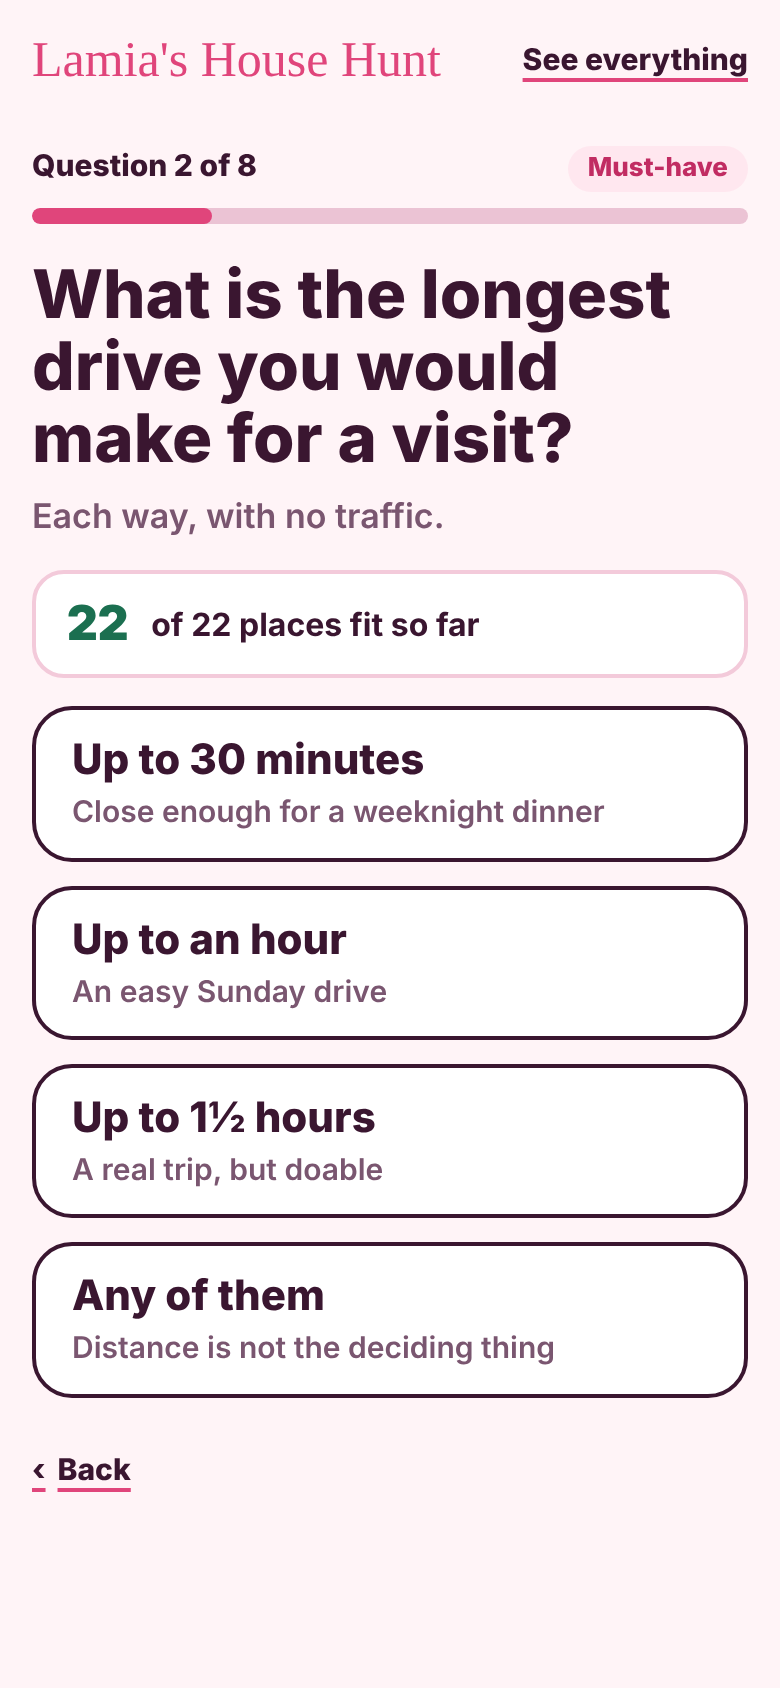
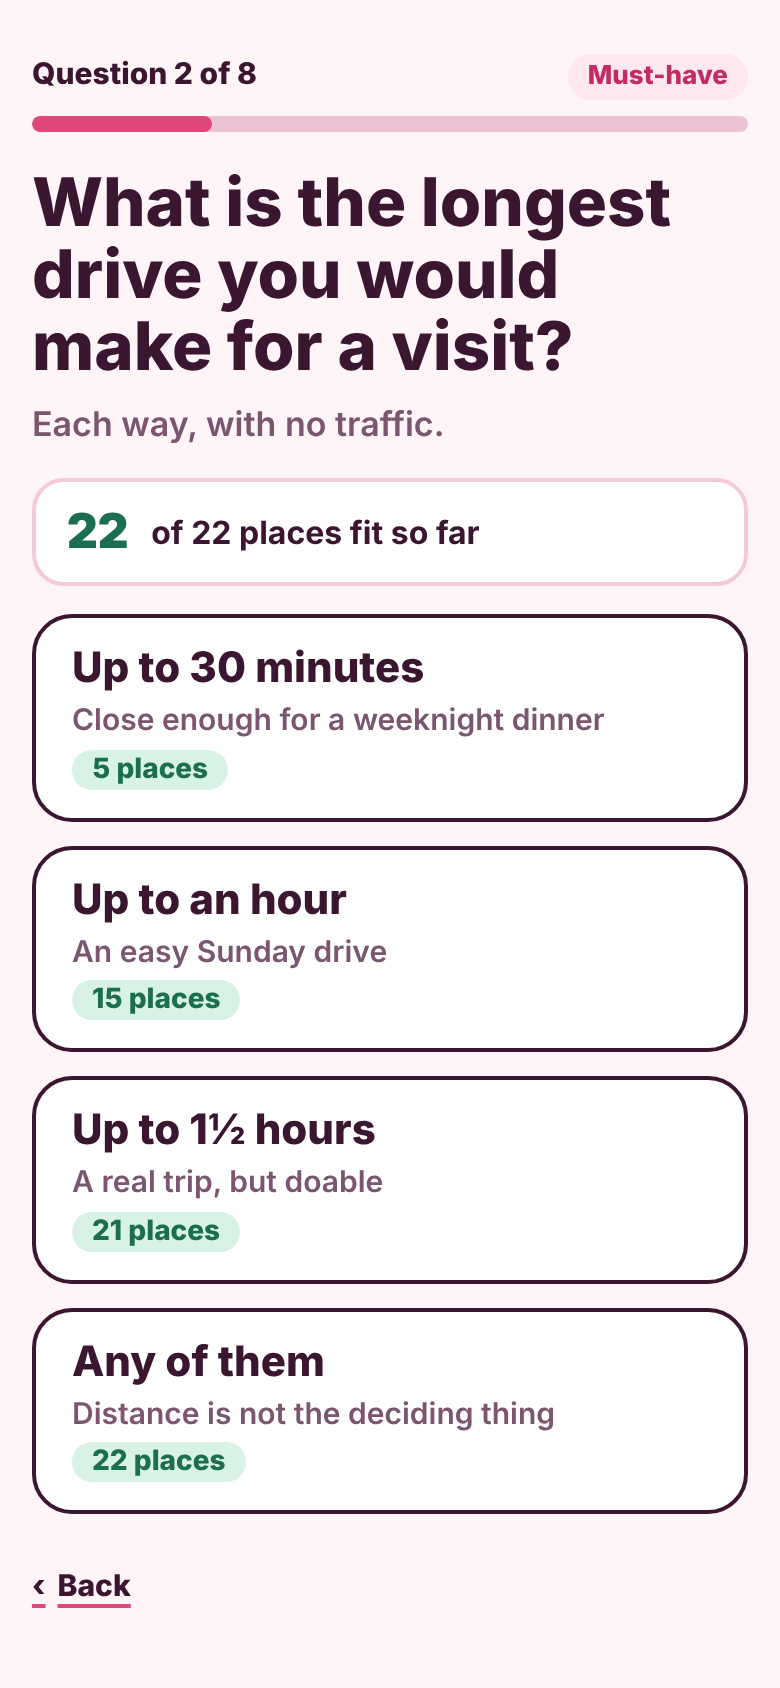
Short version v2: counts on must-have answers, visible without hover
Claude-Session: https://claude.ai/code/session_01QmsfsQ2hk5v2h8XwNhCh1P

Changed region(s): [[0.0308, 0.0308, 0.9846, 0.8934], [0.0308, 0.9242, 0.1846, 0.955], [0.9231, 0.8626, 0.9538, 0.8934]]

diff --git a/house-hunt/scripts/concierge_walkthrough_test.js b/house-hunt/scripts/concierge_walkthrough_test.js
@@ -140,7 +140,9 @@ async function barSays(page, n, label) {
         for (const a of q.answers) {
           const c = M.countFits(B, QS, Object.assign({}, answers, { [q.id]: a.id }), CFG); counts[a.id] = c;
           const btn = page.locator('#app [data-act="qa"][data-v="' + a.id + '"]');
-          ok((await btn.locator(".none").count()) === (c === 0 ? 1 : 0), q.id + "/" + a.id + ": 'None fit' label iff it leaves none (" + c + ")");
+          ok((await btn.locator(".none").count()) === (q.must_have && c === 0 ? 1 : 0), q.id + "/" + a.id + ": 'None fit' label iff a must-have answer leaves none (" + c + ")");
+          const cnt = await btn.locator(".cnt").allTextContents();
+          ok(q.must_have && c > 0 ? cnt.length === 1 && cnt[0] === c + (c === 1 ? " place" : " places") : cnt.length === 0, q.id + "/" + a.id + ": the count on the button (" + cnt.join("") + ", want " + c + ")");
           if (!opts.fast) {
             await btn.hover();
             const t = (await page.locator("#fitcount").innerText()).replace(/\n/g, " ");
@@ -150,6 +152,13 @@ async function barSays(page, n, label) {
         if (!opts.fast) { await page.mouse.move(2, 2); await page.locator("#app h1").hover(); }
       }
       if (opts.shot && opts.shot[q.id]) await screen(page, opts.shot[q.id]);
+      if (i === QS.length - 1 || q.must_have) {   /* scrolled to the end, the last control clears the bar */
+        const clear = await page.evaluate(() => { window.scrollTo(0, document.scrollingElement.scrollHeight); const bar = document.getElementById("savebar");
+          const last = [...document.querySelectorAll("#app .choice, #app .pchip, #app [data-act=pick-done]")].pop(); if (!bar || !last) return true;
+          return last.getBoundingClientRect().bottom <= bar.getBoundingClientRect().top; });
+        ok(clear, q.id + ": the bar hides the last answer");
+        await page.evaluate(() => window.scrollTo(0, 0));
+      }
       const choice = pickFor(q, counts);
       if (choice == null) { await act(page, "q-skip"); continue; }
       if (q.kind === "pick_two") {
@@ -225,7 +234,7 @@ async function barSays(page, n, label) {
     const answers = await answerAll(page, (q) => {
       if (plan[q.id] !== undefined) return plan[q.id];
       return q.kind === "pick_two" ? q.answers.slice(0, 2).map((a) => a.id) : q.answers[0].id;
-    }, { fast: !!vp.p, shot: vp.p ? { [QS[0].id]: "03-question" } : { [QS[0].id]: "03-question-first", [(QS.find((q) => q.must_have) || QS[0]).id]: "03b-question-must-have", [(QS.find((q) => q.kind === "pick_two") || QS[0]).id + ":picked"]: "03c-question-pick-two" } });
+    }, { fast: !!vp.p, shot: vp.p ? { [QS[0].id]: "03-question", [(QS.find((q) => q.must_have) || QS[0]).id]: "03b-question-must-have" } : { [QS[0].id]: "03-question-first", [(QS.find((q) => q.must_have) || QS[0]).id]: "03b-question-must-have", [(QS.find((q) => q.kind === "pick_two") || QS[0]).id + ":picked"]: "03c-question-pick-two" } });
     if (ex) ok(JSON.stringify(M.match(B, QS, answers, CFG).fits.map((r) => r.b.id)) === JSON.stringify(ex.expected_fits || ex.order), "the walk reproduces the data's first example");
     const R = await checkMatches(page, answers, L + "all answered");
     await everyScreen(page, L + "matches", LIMIT);
@@ -295,6 +304,14 @@ async function barSays(page, n, label) {
     await act(page, "redo"); await barSays(page, 3, "a question"); await everyScreen(page, L + "question with bar", LIMIT); if (!vp.p) await screen(page, "06b-question-with-bar");
     for (let i = 0; i < QS.length; i++) {   /* her answers are remembered: Continue / the pressed answer moves on */
       const q = QS[i];
+      await page.waitForSelector("#q-h");
+      const clear = await page.evaluate(() => { window.scrollTo(0, document.scrollingElement.scrollHeight); const bar = document.getElementById("savebar");
+        const last = [...document.querySelectorAll("#app .choice, #app .pchip, #app [data-act=pick-done], #app [data-act=q-back]")].pop();
+        return !bar || !last || last.getBoundingClientRect().bottom <= bar.getBoundingClientRect().top; });
+      ok(clear, L + q.id + ": with the bar showing, the last answer and Back scroll clear of it");
+      if (i === QS.length - 1) await screen(page, "06c-last-question-with-bar-scrolled");
+      await page.evaluate(() => window.scrollTo(0, 0));
+      if (q.must_have && !vp.p) await screen(page, "06d-must-have-with-counts");
       if (q.kind === "pick_two") { if (answers[q.id]) await act(page, "pick-done"); else await act(page, "q-skip"); }
       else if (answers[q.id]) await act(page, "qa", answers[q.id]); else await act(page, "q-skip");
     }

diff --git a/house-hunt/site/concierge.html b/house-hunt/site/concierge.html
@@ -96,6 +96,8 @@ h1,h2,h3,h4{font-family:var(--display);margin:0;text-wrap:balance;line-height:1.
 .choice small{display:block;font-family:var(--body);font-weight:600;font-size:15px;color:var(--muted)}
 .choice[aria-pressed="true"]{background:var(--ink);color:var(--paper);border-color:var(--ink)}
 .choice[aria-pressed="true"] small{color:var(--paper);opacity:.85}
+.choice .cnt{justify-self:start;font-family:var(--body);font-size:14px;font-weight:800;color:var(--ok-ink);background:var(--ok-bg);border-radius:999px;padding:2px 10px;margin-top:2px}
+.choice[aria-pressed="true"] .cnt{color:var(--ok-ink)}
 .choice .none{justify-self:start;font-family:var(--body);font-size:14px;font-weight:800;color:var(--low-ink);background:var(--low-bg);border-radius:999px;padding:2px 10px;margin-top:2px}
 .choice[aria-pressed="true"] .none{color:var(--low-ink)}
 .pchips{display:flex;flex-wrap:wrap;gap:10px}
@@ -724,7 +726,7 @@ function question() {
       var c = M.countFits(B, QS, with1, CFG);
       return '<button type="button" class="choice" data-act="qa" data-v="' + esc(a.id) + '" data-count="' + c + '" aria-pressed="' + (picked === a.id) + '">' +
         '<span>' + esc(a.label) + '</span>' + (a.sublabel ? '<small>' + esc(a.sublabel) + '</small>' : '') +
-        (c === 0 ? '<span class="none">None fit with your other answers</span>' : '') + '</button>';
+        (!q.must_have ? '' : c === 0 ? '<span class="none">None fit with your other answers</span>' : '<span class="cnt">' + c + (c === 1 ? ' place' : ' places') + '</span>') + '</button>';
     }).join("") + '</div>';
   }
   return top() + head +
